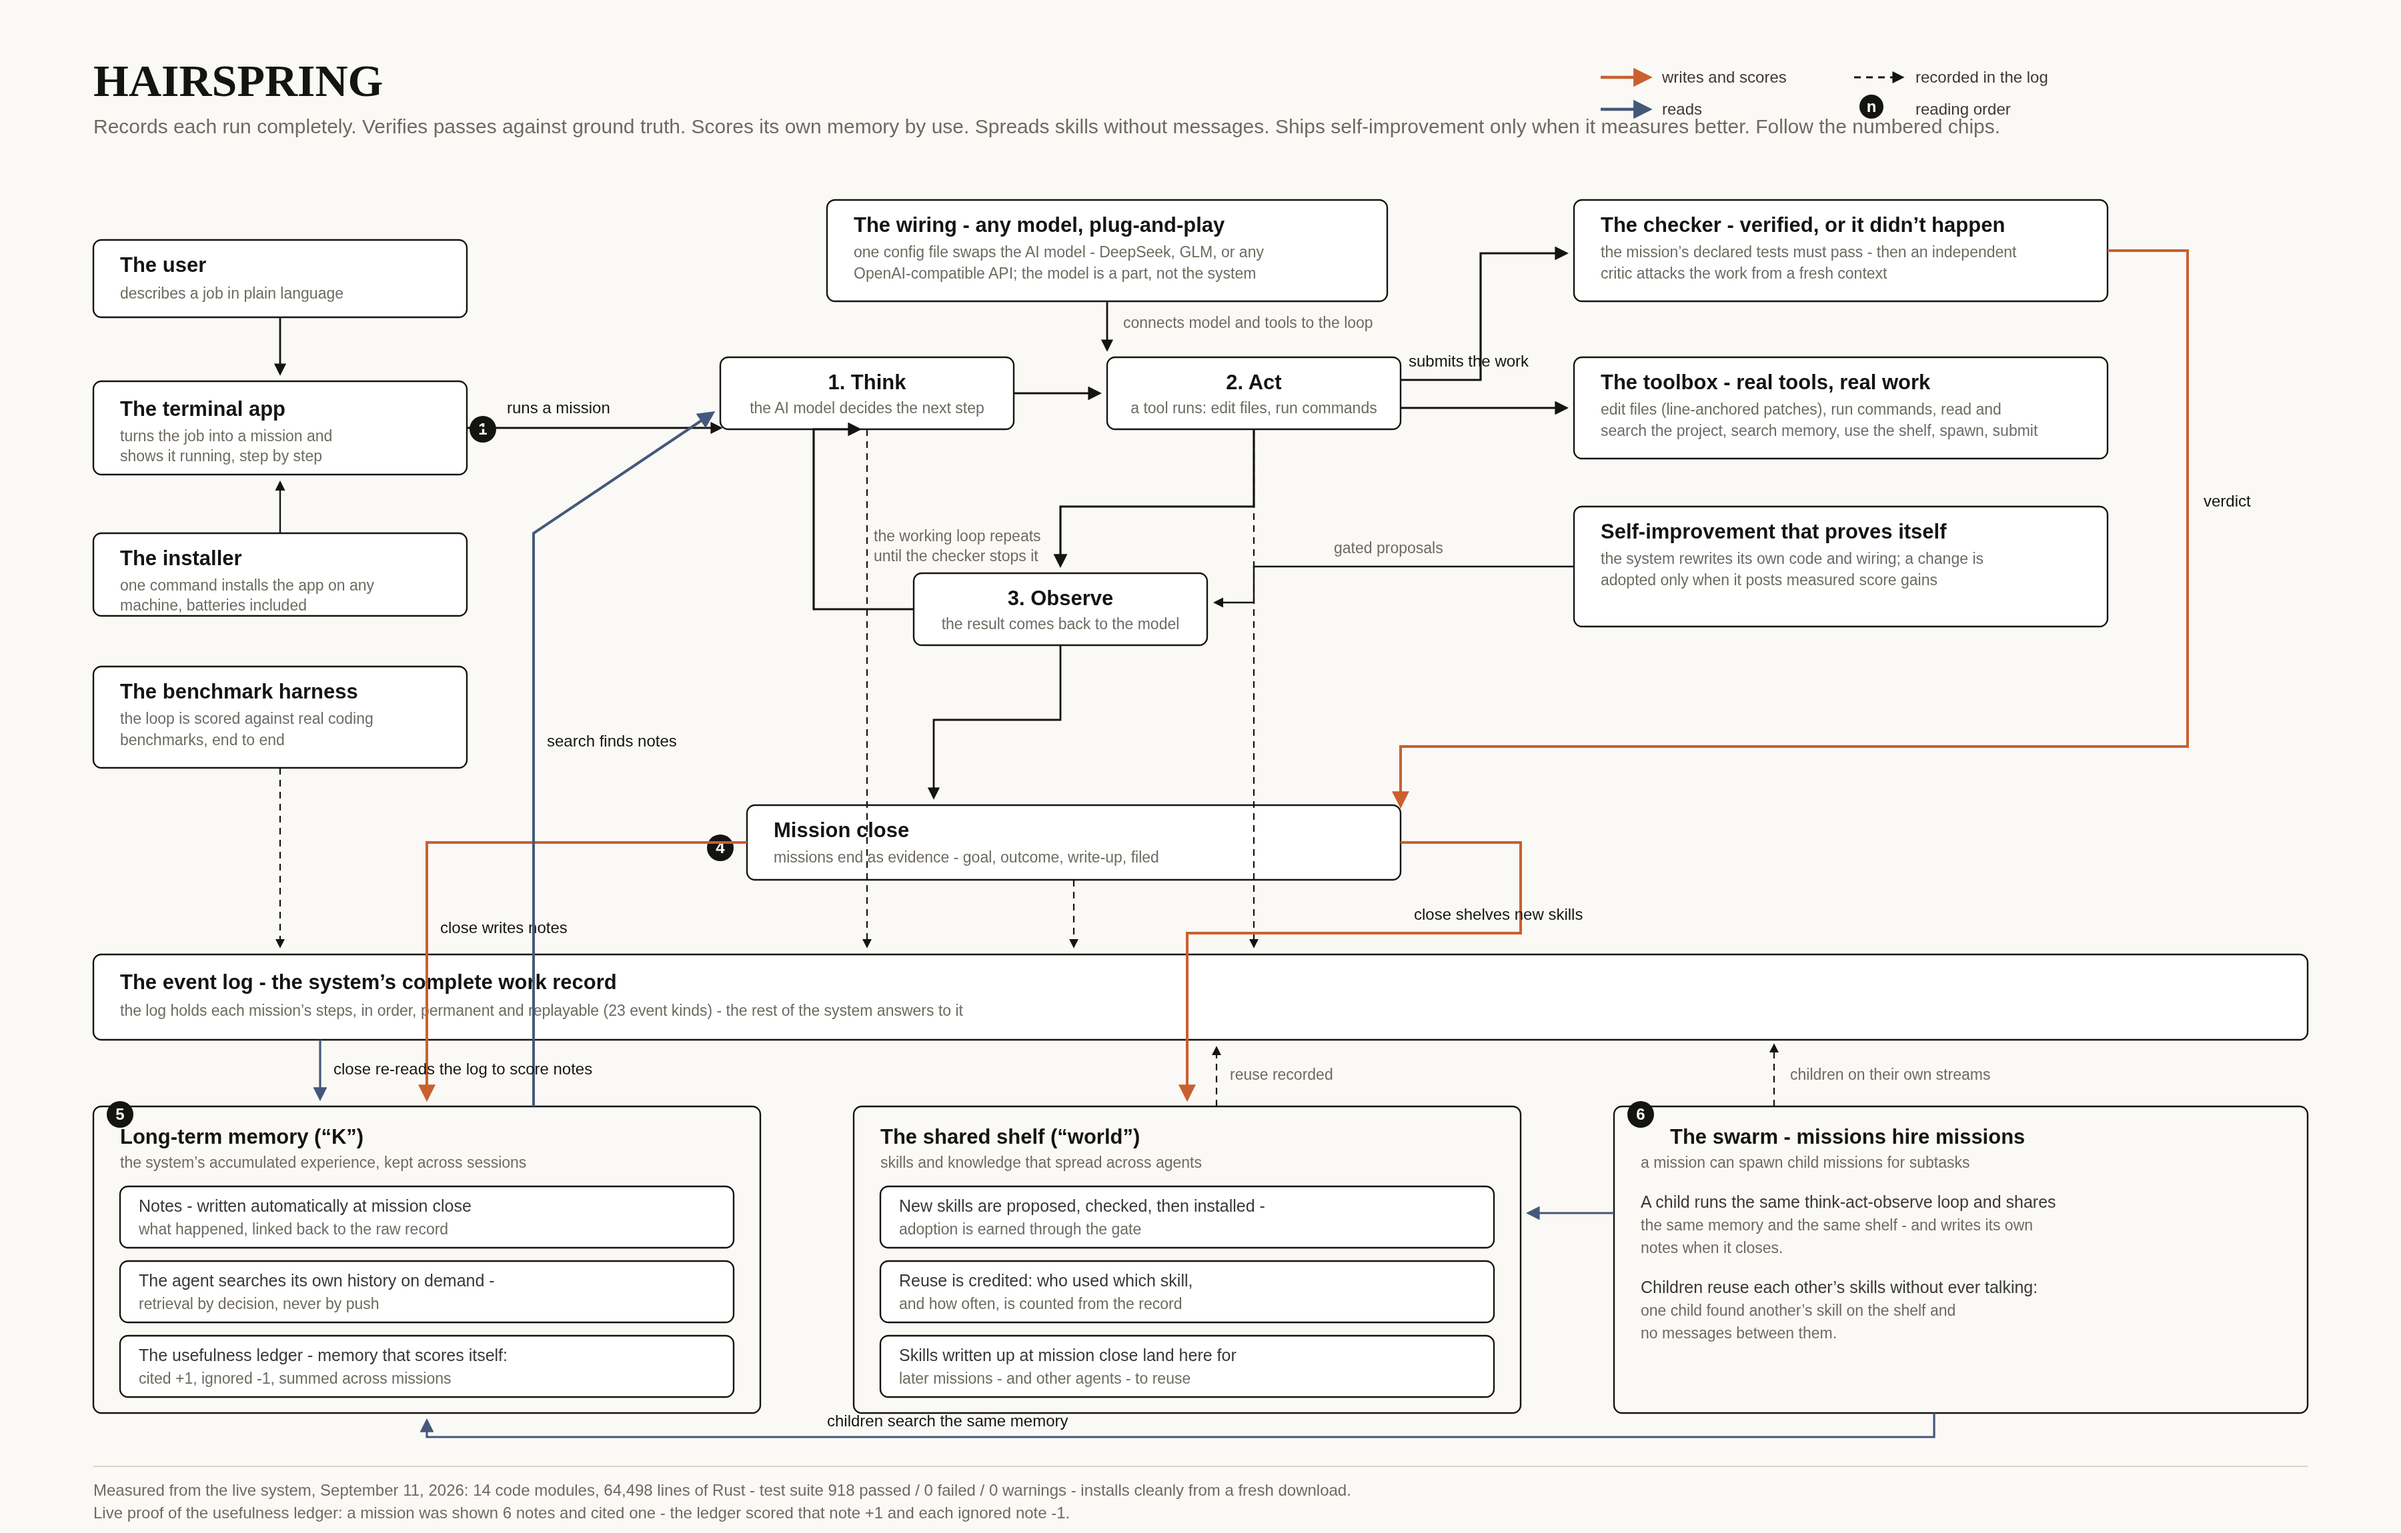
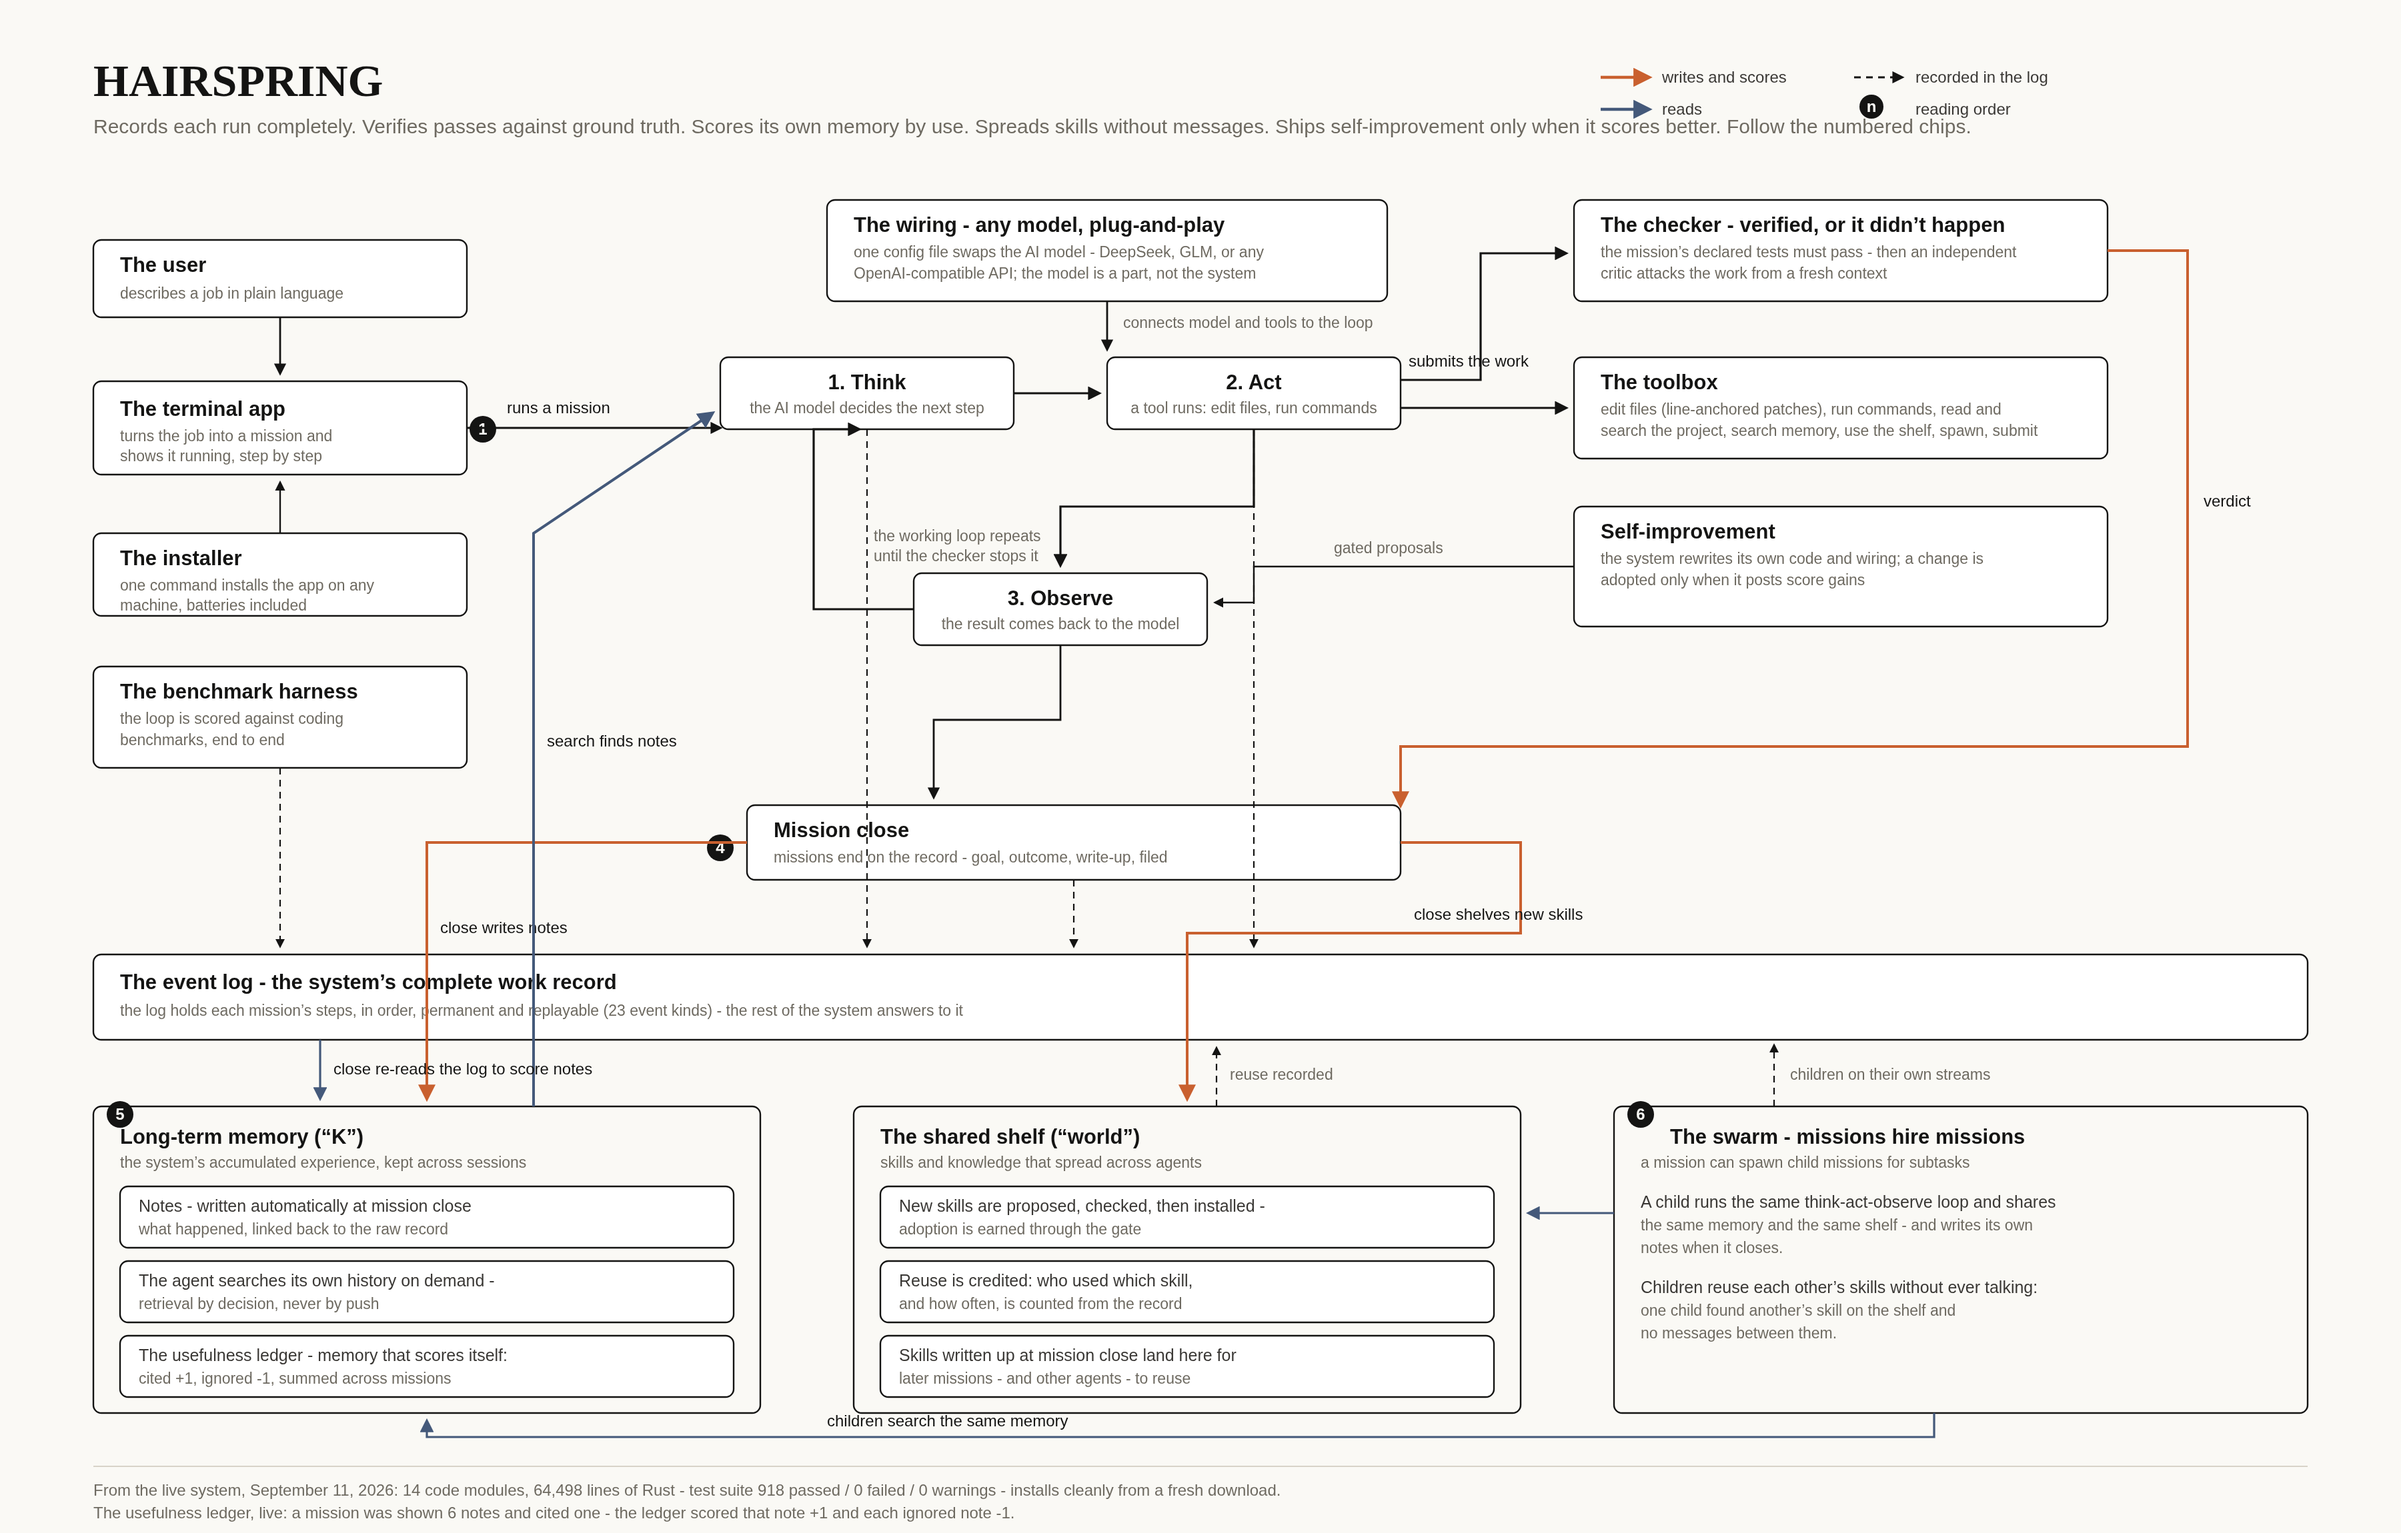
Remove credibility framings and invisible-doc references
- numbers table loses its header entirely (was "The evidence", then
  "Measured numbers" - both assert their own credibility); the table
  follows the abstract directly
- spec-anchor paragraph removed: nothing in the repo references
  documents a reader cannot see
- figure: "Self-improvement that proves itself" -> "Self-improvement",
  "real tools, real work" tagline cut, "measured score gains" ->
  "score gains", "missions end as evidence" -> "missions end on the
  record", footer "Measured from" -> "From", "Live proof of the
  usefulness ledger" -> "The usefulness ledger, live"
- abstract: "the scorer measures it better" -> "scores better"
- ledger: remaining design-spec citations stripped (Spec-gate-8,
  gate-section header); mechanism-named gates (edit.apply gate,
  --path-args gate) are code identifiers and stay
- Docs-only commit: Rust untouched; suite at HEAD 918 passed / 0 failed

diff --git a/docs/deep-pass-ledger.md b/docs/deep-pass-ledger.md
@@ -9,7 +9,7 @@
 - hs-swarm (1 file, 215): DOC FIX run_to_completion's doc comment was attached to spawn_child (misattached ///). spawn() depth:0 hardcoded noted (proof path).
 - hs-log (1 file, 756): NO FIXES. Notes: fork lineage GoalUpdate payload is non-JSON string while other GoalUpdates are JSON (no consumer parses GoalUpdate payloads; left); testing module's super-imports style (left).
 ## IN FLIGHT
-- gates gate2 re-run needed (hs-world/hs-swarm changes landed mid-run)
+- gate2 re-run needed (hs-world/hs-swarm changes landed mid-run)
 ## TODO crates
 - hs-selfmod (1042), hs-kernel (1019+168?), hs-scorer (1456), hs-applypatch (1362), hs-hashline (4926), hs-loop (15851)
 
@@ -34,7 +34,7 @@ Notes (leave): scheme.rs doc references crate::util::hash (stale vendoring path,
 Notes: scheme.rs doc path crate::util::hash stale; mutate.rs panics-vs-clamps doc (bench harness); "0:"/"EOF" magic sentinels owned by tool layer.
 
 ## hs-loop (58 src files, 15,607 src lines) — IN PROGRESS (~3.5k lines read: all 34 small bins + termexec/selfcheck/goal/msgfmt-partial)
-1. FIXED bin/hs-plugin-policy.rs: TWO-layer dead-wire bug — (a) dispatch matched only literal "policy.propose_prompt", but kernel ToolCall always sends method "tool.call" → "$error: unknown method" on every live call; (b) handler read params["name"]/["text"] instead of params["args"][...]. Spec-gate-8 self-instruction proposal path was dead in live missions. RED tests/policy_wire_red.rs (spawns real binary, tool.call frame; RED: "$error: unknown method", then "empty proposal text"), GREEN.
+1. FIXED bin/hs-plugin-policy.rs: TWO-layer dead-wire bug — (a) dispatch matched only literal "policy.propose_prompt", but kernel ToolCall always sends method "tool.call" → "$error: unknown method" on every live call; (b) handler read params["name"]/["text"] instead of params["args"][...]. The self-instruction proposal path was dead in live missions. RED tests/policy_wire_red.rs (spawns real binary, tool.call frame; RED: "$error: unknown method", then "empty proposal text"), GREEN.
 2. FIXED byte-boundary panic class (7 sites, one helper pair): msgfmt.rs gained tail_bytes_safe/prefix_bytes_safe; replaced raw byte slicing in termexec.rs tail, selfcheck.rs:58, repexec.rs tail, critic.rs tail, bin/hs-swe-run.rs:495, bin/hs-plugin-swecheck.rs:77+86. RED tests/utf8_tail_red.rs 3 tests (é*k+'x' output → cut mid-char; RED panics at termexec.rs:14, selfcheck.rs:58, repexec.rs:18 "start byte index 1 is not a char boundary"), GREEN. Full hs-loop suite: all targets 0 failed.
 Process note: one patch script reused a stale `new` variable and mis-patched hs-swe-run.rs (nested fn); caught by compile error, repaired, re-verified.
 REMAINING READS: msgfmt rest, mcpbridge, mcp_web_seam_red, repotools, evolve, mission_time, tui_views, assembler, sweprompt, toolschema, ledger, critic rest, uipaint, repexec rest, editapply, publication, realmodel, repl, tui, lib.rs, hs-tb-run, hs-repl, scripted, mcpcall, recmodel bins (~12k lines).
@@ -119,7 +119,7 @@ STILL UNREAD: tui_views, uipaint, repexec rest, editapply, publication, realmode
   is the owner contract. Noted; not code-changed (mirrors existing MCP gate design).
 - tui.rs: all text surgery uses char_indices or char-cells (wrap_line/render line) — byte-safe.
 
-## hs-loop gate (closed 2026-09-09)
+## hs-loop (closed 2026-09-09)
 - 58 src files + all 34 bins read line-by-line = 15,607 lines.
 - fixes this sweep: f1 policy dead-wire, f2 11-site utf8 byte-boundary class (7 loop + 4 cli/global),
   f3 assembler 2 utf8 sites, f4 assembler header/tail contracts rewrite (already in earlier entries), and

diff --git a/README.md b/README.md
@@ -21,10 +21,8 @@ Memory scores itself. Notes written at mission close earn +1 when later
 missions cite them and -1 when served and ignored, and the running
 balance decides what the agent keeps. Skills move between agents
 through a shared world plane: reuse is credited, and the log says who
-used which skill where. Self-modification ships only when the scorer
-measures it better on held-out assays.
-
-## Measured numbers
+used which skill where. Self-modification ships only when it scores
+better on held-out assays.
 
 | Number | Regenerate it |
 |--------|---------------|
@@ -141,10 +139,6 @@ each stream.
 | `hs-selfmod` | Guarded self-modification loop |
 | `hs-memory` / `hs-world` | Memory and world services |
 | `hs-cli` | Log inspection (`hs-log-cli`) and test fixtures |
-
-Doc comments cite the internal design spec by gate and section
-("gate 3", "spec section 10 row 7") and live incidents by date; the
-spec itself is not in this repo.
 
 ## Documentation
 
